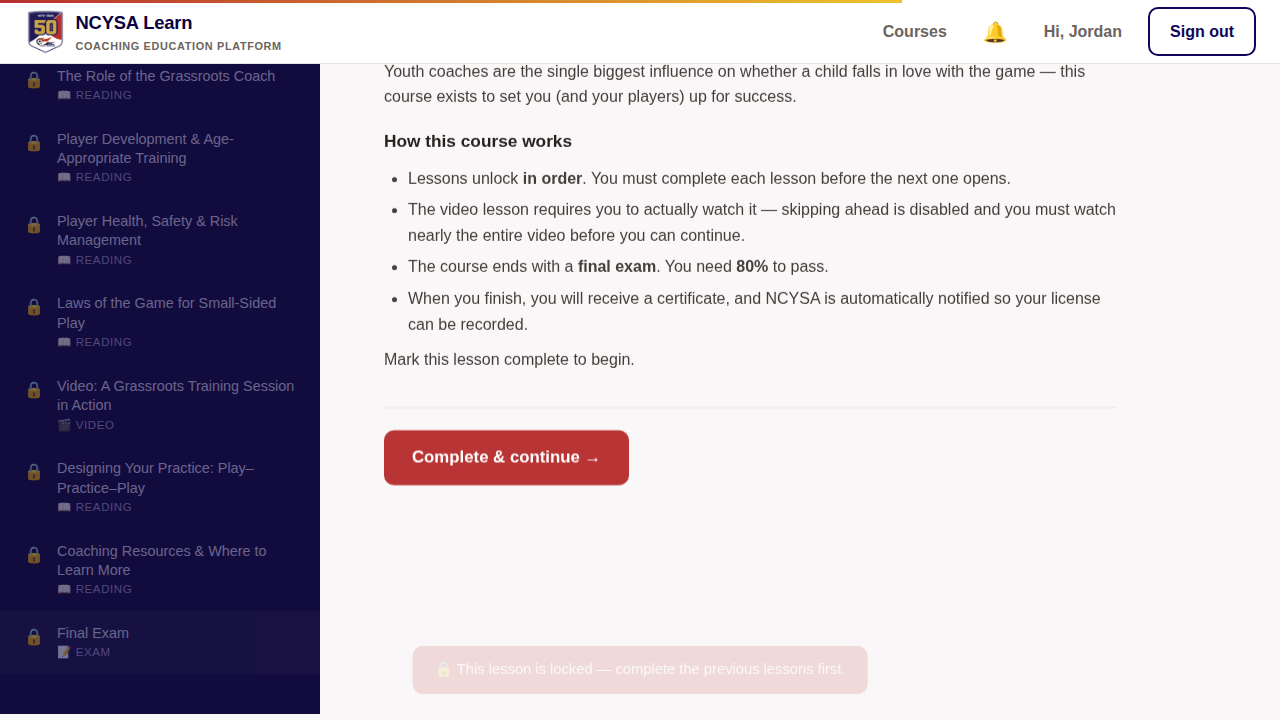
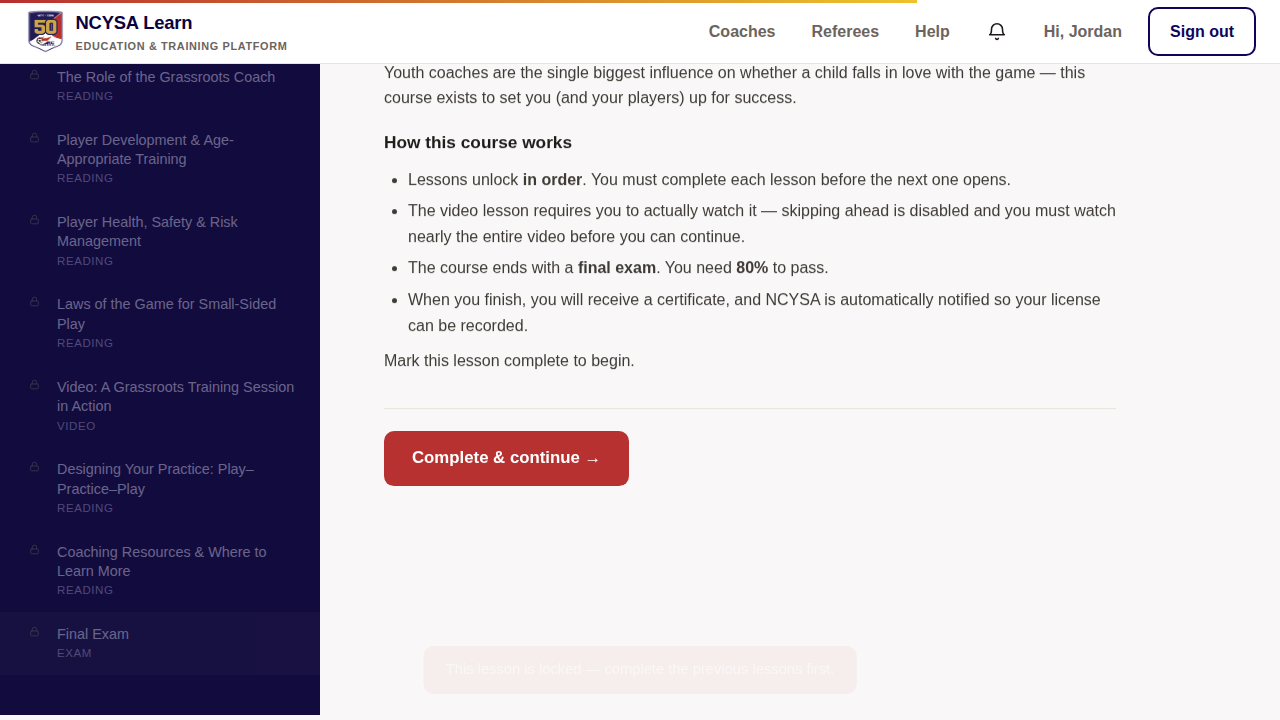
Split into separate Coaches and Referees portals under one app
The landing page is now a clean chooser with two front doors: the NCYSA
Coaches Portal and the NCSRA Referees Portal. Each portal shows only its own
courses and branding — neither bleeds into the other.

- viewHome: portal chooser (two portal cards + resume strip), NCYSA-branded.
- viewCoaches (#/coaches, legacy #/courses alias): dedicated Coaches Portal
  with the coaching feature strip and coach courses only.
- viewReferees (#/referees): unchanged NCSRA Referees Portal.
- Nav shows "Coaches" and "Referees" links so each area is one click away.
- Back links land in the right place: coursePortalHash() routes a course's
  "back to courses" to its own portal; certificate/register fall back to the
  chooser. Learner roleHome is now the chooser.
- e2e test updated to walk the new chooser-based flow.

Claude-Session: https://claude.ai/code/session_018u9gfGCRwBF7xDumhssY86

diff --git a/public/app.js b/public/app.js
@@ -102,7 +102,8 @@ function renderNav() {
       <span>${brandName}<span class="sub">Education &amp; Training Platform</span></span>
     </a>
     <span class="spacer"></span>
-    <a class="navlink nav-courses" href="#/courses">Courses</a>
+    <a class="navlink nav-coaches" href="#/coaches">Coaches</a>
+    <a class="navlink nav-referees" href="#/referees">Referees</a>
     <a class="navlink nav-help" href="#/help">Help</a>
     ${user ? `
       ${user.role === 'admin' ? '<a class="navlink nav-dashboard" href="#/admin">NCYSA Dashboard</a><a class="navlink nav-training" href="#/staff-training">Staff Training</a>' : ''}
@@ -134,11 +135,19 @@ const isCoachCourse = (c) => !c.audience || c.audience === 'everyone' || c.audie
 const isStaffCourse = (c) => c.audience === 'staff' || c.audience === 'everyone';
 
 // Where each role lands after signing in.
-const roleHome = (role) => role === 'admin' ? '#/admin' : role === 'editor' ? '#/admin/courses' : '#/courses';
+const roleHome = (role) => role === 'admin' ? '#/admin' : role === 'editor' ? '#/admin/courses' : '#/';
+// Which portal a course belongs to — so "back" links land in the right place.
+const coursePortalHash = (c) => (c && c.audience === 'referees') ? '#/referees' : '#/coaches';
 
+// The landing page is a clean chooser: two separate portals under one app —
+// Coaches (NCYSA) and Referees (NCSRA). Each is its own front door; neither
+// shows the other's courses.
 async function viewHome() {
-  const { courses } = await api('/api/courses');
+  let courses = [];
+  try { courses = (await api('/api/courses')).courses; } catch { /* logged-out is fine */ }
   const resume = me?.user ? courses.find((c) => c.enrolled && !c.completedAt) : null;
+  const refBrand = (await brandMap());
+  const refLogo = Object.values(refBrand).find((b) => b.audience === 'referees')?.logo || '';
   app.innerHTML = `
     ${resume ? `
     <section class="resume-strip">
@@ -152,55 +161,31 @@ async function viewHome() {
         <a class="btn btn-accent btn-lg resume-btn" href="#/course/${resume.id}">Resume where you left off →</a>
       </div>
     </section>` : ''}
-    <section class="hero">
+    <section class="hero home-hero">
       ${logoImg('hero-logo')}
-      <h1>Coaching education, built by NCYSA for North Carolina soccer.</h1>
-      <p>Take your required licenses and professional development courses online —
-         self-paced, with your progress tracked automatically by NCYSA.</p>
-      <div class="cta-row">
-        ${me?.user
-          ? `<a class="btn btn-accent btn-lg" href="#/courses">Browse courses</a>`
-          : `<a class="btn btn-accent btn-lg" href="#/register">Create free account</a>
-             <a class="btn btn-ghost btn-lg" href="#/login">Sign in</a>`}
-      </div>
+      <h1>NCYSA Learn</h1>
+      <p>Online education and training for North Carolina soccer — self-paced, with
+         your progress and certificates tracked automatically. Choose your path to get started.</p>
     </section>
-    <div class="feature-strip">
-      <div class="feature"><div class="fi">${ICON_LESSONS}</div><h3>Self-paced lessons</h3><p>Reading, video, and exams that unlock in order — no skipping ahead.</p></div>
-      <div class="feature"><div class="fi">${ICON_VIDEO}</div><h3>Verified video watching</h3><p>Video lessons track real watch time, so completed licenses reflect genuine training.</p></div>
-      <div class="feature"><div class="fi">${ICON_CERT}</div><h3>Instant certificates</h3><p>Finish a course and your certificate is issued on the spot.</p></div>
-      <div class="feature"><div class="fi">${ICON_NOTIFY}</div><h3>NCYSA notified automatically</h3><p>Completions are reported to NCYSA and emailed to you instantly.</p></div>
-    </div>
     <section class="section">
-      <h2>Which brings you here?</h2>
-      <p class="lead">NCYSA education for every role in the game — choose your path.</p>
-      <div class="role-split">
-        <a class="role-card" href="#/courses">
-          <div class="role-icon">${ICON_COACH}</div>
-          <h3>Coaches go here</h3>
-          <p>Grassroots licenses and coaching development — including the course below.</p>
-          <span class="role-go">View coach courses →</span>
+      <div class="portal-split">
+        <a class="portal-card portal-coaches" href="#/coaches">
+          <div class="portal-badge">${logoImg('portal-logo')}</div>
+          <div class="role-icon big">${ICON_COACH}</div>
+          <h2>Coaches Portal</h2>
+          <p>Grassroots licenses and coaching development from NCYSA.</p>
+          <span class="btn btn-accent btn-lg">Enter Coaches Portal →</span>
         </a>
-        <a class="role-card" href="#/referees">
-          <div class="role-icon">${ICON_REFEREE}</div>
-          <h3>Referees go here</h3>
-          <p>Certification and Laws of the Game training for match officials.</p>
-          <span class="role-go">View referee courses →</span>
+        <a class="portal-card portal-referees" href="#/referees">
+          <div class="portal-badge">${refLogo ? `<img src="${esc(refLogo)}" alt="NCSRA" />` : logoImg('portal-logo')}</div>
+          <div class="role-icon big">${ICON_REFEREE}</div>
+          <h2>Referees Portal</h2>
+          <p>NCSRA certification and recertification for match officials.</p>
+          <span class="btn btn-accent btn-lg">Enter Referees Portal →</span>
         </a>
       </div>
     </section>
-    <section class="section" id="coach-courses">
-      <h2>Coach courses</h2>
-      <p class="lead">Official NCYSA coaching education courses.</p>
-      <div class="course-grid">${courses.filter(isCoachCourse).map(courseCard).join('')}</div>
-    </section>
-    ${courses.some((c) => c.audience === 'referees') ? `
-    <section class="section" id="referee-courses">
-      <h2>Referee courses</h2>
-      <p class="lead">Certification and recertification for North Carolina soccer referees.</p>
-      <div class="course-grid">${courses.filter((c) => c.audience === 'referees').map(courseCard).join('')}</div>
-    </section>` : ''}
     <footer class="footer">© ${new Date().getFullYear()} North Carolina Youth Soccer Association · NCYSA Learn</footer>`;
-  bindCourseCards();
 }
 
 function courseCard(c) {
@@ -248,18 +233,28 @@ function bindCourseCards() {
   );
 }
 
-async function viewCatalog() {
+// The Coaches Portal — NCYSA-branded, coach courses only (no referee content).
+async function viewCoaches() {
   const { courses } = await api('/api/courses');
   const coach = courses.filter(isCoachCourse);
-  const referee = courses.filter((c) => c.audience === 'referees');
   app.innerHTML = `
     <section class="section">
-      <h2>Course catalog</h2>
-      <p class="lead">Official NCYSA courses. Enroll free with your NCYSA Learn account.</p>
-      ${coach.length ? `<h3 class="catalog-group">Coach courses</h3>
-        <div class="course-grid">${coach.map(courseCard).join('')}</div>` : ''}
-      ${referee.length ? `<h3 class="catalog-group">Referee courses</h3>
-        <div class="course-grid">${referee.map(courseCard).join('')}</div>` : ''}
+      <a class="back-link" href="#/">← All portals</a>
+      <div class="role-hero">
+        ${logoImg('portal-hero-logo')}
+        <h2>NCYSA Coaches Portal</h2>
+        <p class="lead">Grassroots licenses and coaching education for North Carolina soccer coaches.</p>
+      </div>
+      <div class="feature-strip">
+        <div class="feature"><div class="fi">${ICON_LESSONS}</div><h3>Self-paced lessons</h3><p>Reading, video, and exams that unlock in order — no skipping ahead.</p></div>
+        <div class="feature"><div class="fi">${ICON_VIDEO}</div><h3>Verified video watching</h3><p>Video lessons track real watch time, so completed licenses reflect genuine training.</p></div>
+        <div class="feature"><div class="fi">${ICON_CERT}</div><h3>Instant certificates</h3><p>Finish a course and your certificate is issued on the spot.</p></div>
+        <div class="feature"><div class="fi">${ICON_NOTIFY}</div><h3>NCYSA notified automatically</h3><p>Completions are reported to NCYSA and emailed to you instantly.</p></div>
+      </div>
+      ${coach.length
+        ? `<div class="course-grid">${coach.map(courseCard).join('')}</div>`
+        : `<div class="card notice-card"><h3>Coach courses are coming soon</h3>
+             <p>Coaching education is on the way. <a href="#/register">Create a free account</a> and we'll have your profile ready.</p></div>`}
     </section>`;
   bindCourseCards();
 }
@@ -371,7 +366,7 @@ function viewRegister() {
       await api('/api/register', { method: 'POST', body: v });
       await refreshMe();
       const dest = afterAuthHash; afterAuthHash = null;
-      location.hash = dest || '#/courses';
+      location.hash = dest || '#/';
     },
   });
 }
@@ -994,9 +989,9 @@ async function showCourseComplete(course, certId, score) {
         <a class="btn btn-primary btn-lg" href="#/cert/${certId}">View your certificate</a>
         ${redirect
           ? `<a class="btn btn-accent btn-lg" href="${esc(redirect)}" style="margin-left:10px">Continue →</a>`
-          : `<a class="btn btn-ghost btn-lg" href="#/courses" style="margin-left:10px">Back to courses</a>`}
+          : `<a class="btn btn-ghost btn-lg" href="${coursePortalHash(course)}" style="margin-left:10px">Back to courses</a>`}
       </p>
-      ${redirect ? `<p class="empty" id="redirectNote" style="margin-top:12px">Taking you back to NCSRA in <span id="rdCount">10</span> seconds… <a href="#/courses" id="rdStay">stay here</a></p>` : ''}
+      ${redirect ? `<p class="empty" id="redirectNote" style="margin-top:12px">Taking you back to NCSRA in <span id="rdCount">10</span> seconds… <a href="${coursePortalHash(course)}" id="rdStay">stay here</a></p>` : ''}
     </div>`;
   if (redirect) {
     let n = 10, cancelled = false;
@@ -1033,7 +1028,7 @@ async function viewCertificate(certId) {
     <p style="text-align:center; margin-bottom:48px">
       <button class="btn btn-primary" id="dlPdfBtn">⬇ Download PDF</button>
       <button class="btn btn-ghost" id="printBtn" style="margin-left:10px">Print</button>
-      <a class="btn btn-ghost" href="#/courses" style="margin-left:10px">Back to courses</a>
+      <a class="btn btn-ghost" href="#/" style="margin-left:10px">Back to portals</a>
     </p>`;
   document.getElementById('printBtn').addEventListener('click', () => window.print());
   document.getElementById('dlPdfBtn').addEventListener('click', () => downloadCertificatePdf(c, date));
@@ -2071,7 +2066,8 @@ function viewHelp() {
 
 const routes = [
   { re: /^#?\/?$/, fn: viewHome },
-  { re: /^#\/courses$/, fn: viewCatalog },
+  { re: /^#\/coaches$/, fn: viewCoaches },
+  { re: /^#\/courses$/, fn: viewCoaches }, // legacy alias → Coaches Portal
   { re: /^#\/referees$/, fn: viewReferees },
   { re: /^#\/login$/, fn: viewLogin },
   { re: /^#\/staff$/, fn: viewStaffLogin },

diff --git a/tests/e2e.spec.js b/tests/e2e.spec.js
@@ -10,18 +10,17 @@ const COURSE = 'grassroots-coaching-license';
 test.describe.configure({ mode: 'serial' });
 
 test('full learner journey through the coaching license course', async ({ page }) => {
-  // --- 1. Landing page ------------------------------------------------------
+  // --- 1. Landing page: the portal chooser ----------------------------------
   await page.goto('/');
-  await expect(page.locator('.hero h1')).toContainText('Coaching education');
-  await expect(page.locator('.course-card h3')).toContainText('NCYSA Grassroots Soccer Coaching License');
+  await expect(page.locator('.portal-card', { hasText: 'Coaches Portal' })).toBeVisible();
+  await expect(page.locator('.portal-card', { hasText: 'Referees Portal' })).toBeVisible();
   await page.screenshot({ path: `${SNAP}/01-landing.png`, fullPage: true });
 
   // --- 1b. Coach/Referee split: referee path leads to the NCSRA portal ------
-  await expect(page.locator('.role-card', { hasText: 'Coaches go here' })).toBeVisible();
-  await page.locator('.role-card', { hasText: 'Referees go here' }).click();
+  await page.locator('.portal-card', { hasText: 'Referees Portal' }).click();
   await expect(page.locator('.role-hero h2')).toContainText('NCSRA Referee Education');
   await page.click('.back-link');
-  await expect(page.locator('.hero h1')).toBeVisible();
+  await expect(page.locator('.portal-card', { hasText: 'Coaches Portal' })).toBeVisible();
 
   // --- 2. Register (passwordless: name + email only) ------------------------
   await page.click('.topnav a:has-text("Get started")');
@@ -33,7 +32,9 @@ test('full learner journey through the coaching license course', async ({ page }
   await page.click('button:has-text("Create account")');
   await expect(page.locator('.topnav')).toContainText('Hi, Jordan');
 
-  // --- 3. Enroll ------------------------------------------------------------
+  // --- 3. Enroll (via the Coaches Portal) -----------------------------------
+  await page.goto('/#/coaches');
+  await expect(page.locator('.course-card h3')).toContainText('NCYSA Grassroots Soccer Coaching License');
   await page.click('.enroll-btn');
   await expect(page.locator('.curriculum')).toContainText('NCYSA Grassroots Soccer Coaching License');
   await expect(page.locator('.lesson-pane h1')).toContainText('Welcome');

diff --git a/public/styles.css b/public/styles.css
@@ -616,3 +616,21 @@ textarea:focus-visible, .lesson-item:focus-visible, .role-card:focus-visible, .q
 .storage-list li { display:flex; justify-content:space-between; gap:12px; padding:6px 10px; border-radius:8px; }
 .storage-list li.orphan { background:rgba(220,80,80,.10); }
 .storage-list code { font-size:.82rem; word-break:break-all; }
+
+/* Portal chooser (landing page) — two separate front doors under one app */
+.home-hero h1 { font-size: 2.4rem; }
+.portal-split { display: grid; grid-template-columns: repeat(auto-fit, minmax(300px, 1fr)); gap: 26px; max-width: 900px; margin: 0 auto; }
+.portal-card {
+  position: relative; display: flex; flex-direction: column; align-items: center; text-align: center;
+  gap: 12px; padding: 40px 28px 34px; background: var(--card); border: 1px solid var(--line);
+  border-radius: 18px; box-shadow: var(--shadow); transition: transform .15s, box-shadow .15s, border-color .15s;
+}
+.portal-card:hover { transform: translateY(-4px); box-shadow: 0 10px 30px rgba(18,40,66,.14); text-decoration: none; border-color: var(--brand); }
+.portal-card h2 { color: var(--ink); margin: 0; }
+.portal-card p { color: var(--ink-soft); font-size: .98rem; max-width: 320px; }
+.portal-card .btn { margin-top: 8px; }
+.portal-badge { height: 44px; display: flex; align-items: center; }
+.portal-badge img { max-height: 44px; width: auto; }
+.portal-referees { border-top: 4px solid var(--brand); }
+.portal-coaches { border-top: 4px solid var(--accent); }
+.portal-hero-logo { max-height: 60px; width: auto; margin: 0 auto 4px; display: block; }
